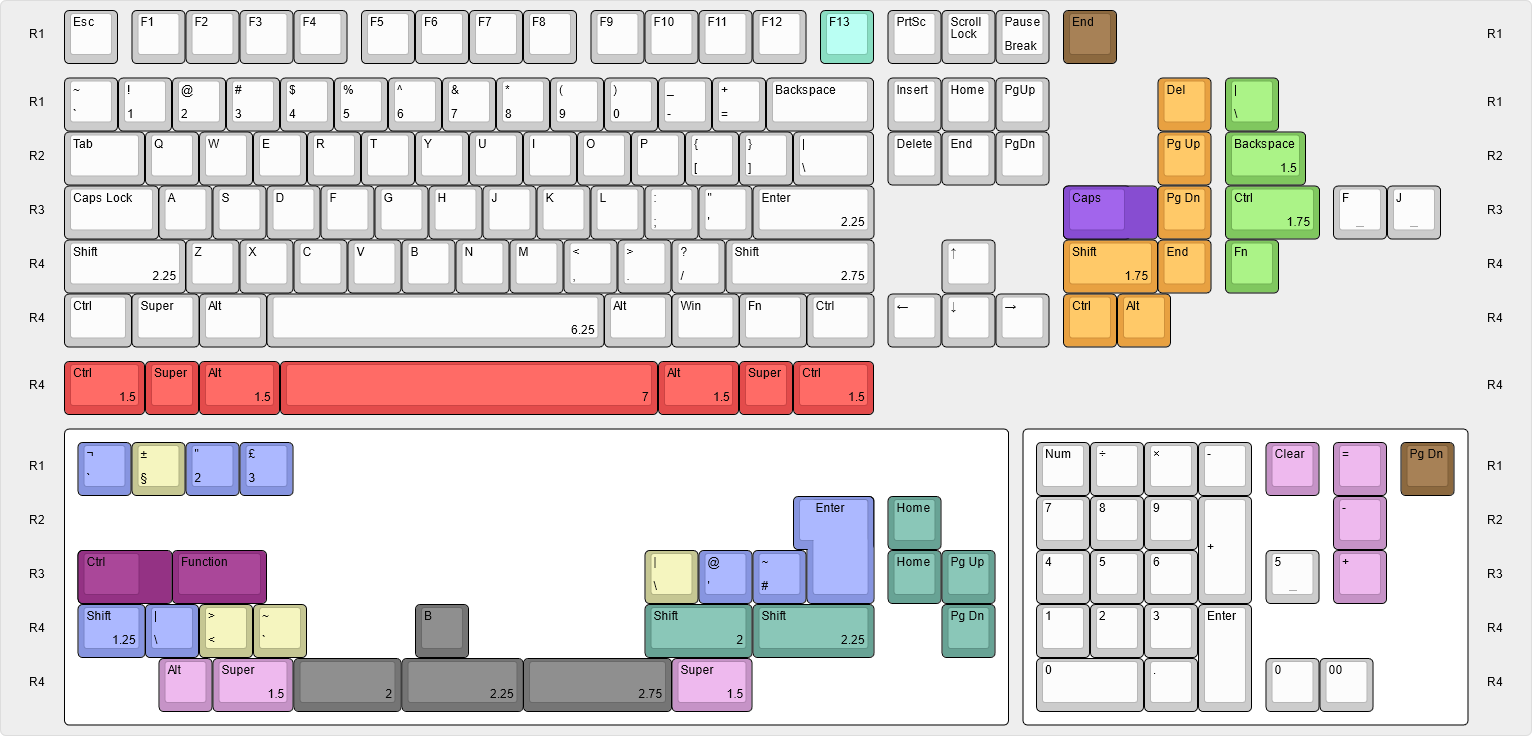
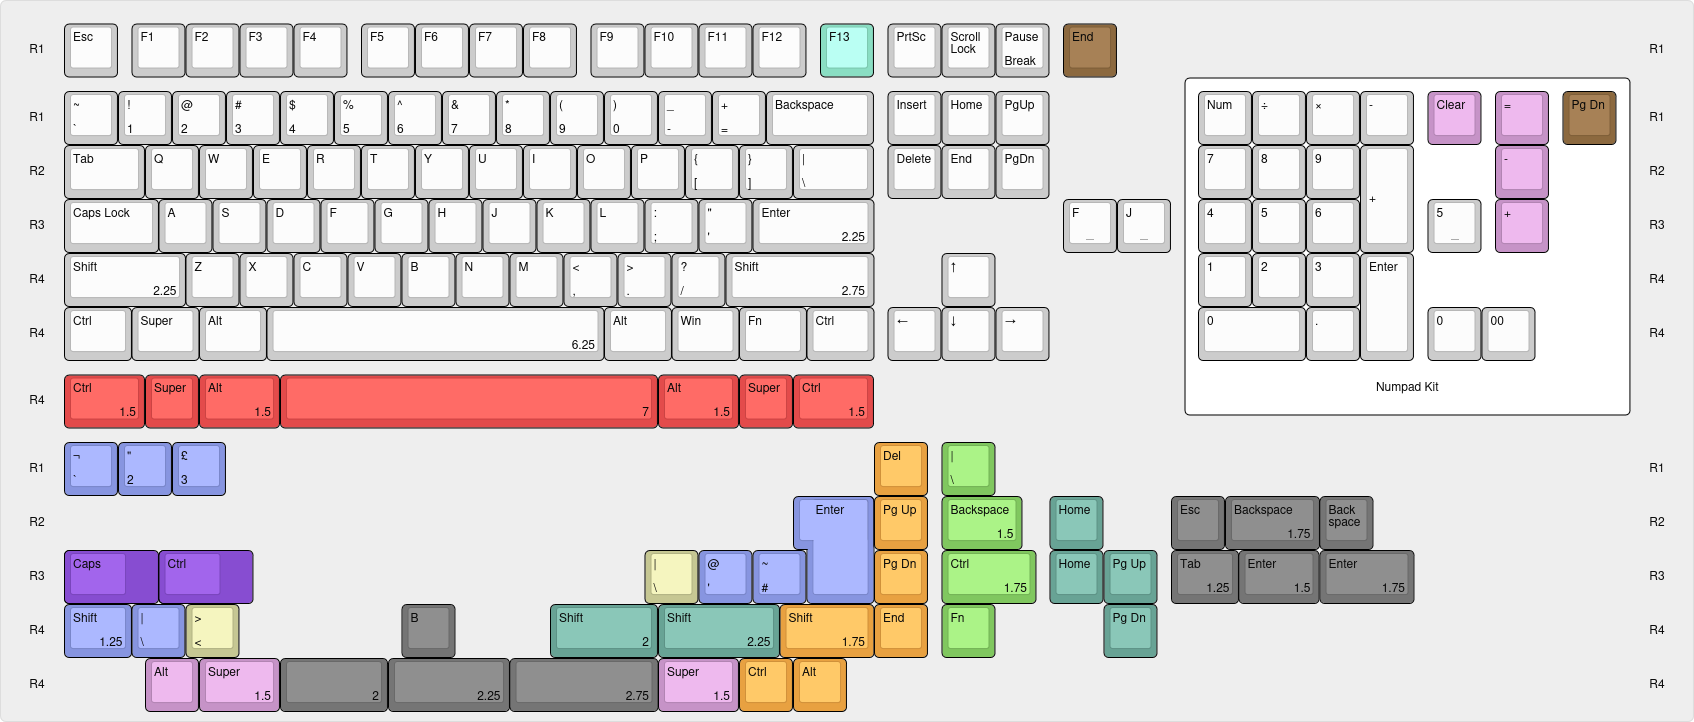
Updates to kitting and added more descriptions

diff --git a/docs/index.html b/docs/index.html
@@ -1,74 +1,99 @@
 <h1 id="keyboard-kitting">Keyboard kitting</h1>
-<p><img src="kitting.png" alt="Kitting" /></p>
-<h2 id="base-kit">Base kit</h2>
-<ul>
-<li>White: ANSI TKL base kit, plus barred F and J</li>
-<li>Cyan: F13</li>
-<li>Red: Tsangan bottom row</li>
-<li>Violet: Stepped caps lock</li>
-<li>Orange: 65% and 75% layout with common right columns
+<p><img src="kitting.png" /></p>
+<h2 id="base-kit">Base Kit</h2>
+<h4 id="white-ansi-tkl">White: ANSI TKL</h4>
+<p>These keys support standard ANSI TKL layout with a 6.25u bottom row.
+Barred F and J are also provided, the non-barred versions may be scooped
+or plain.</p>
+<h4 id="red-tsangan">Red: Tsangan</h4>
+<p>This is a very common option on many boards as an alternative to
+6.25u bottom row, and on some boards - particularly TKLs - is the only
+bottom row option available.</p>
+<h4 id="cyan-f13">Cyan: F13</h4>
+<p>TKLs with this key are increasingly common, including in-stock
+options such as the Novelkeys NK87 and NK87 EE. It is added in the base
+kit to avoid the need to buy an extension kit for a single key for
+boards like this.</p>
+<h4 id="purple-stepped-caps">Purple: Stepped caps</h4>
+<p>Stepped caps lock and stepped ctrl</p>
+<h4 id="orange-6575">Orange: 65/75</h4>
+<p>Support for 65% and 75% layouts with the most common rightmost
+columns</p>
 <ul>
 <li>65%: Del, Pg Up, Pg Dn, End</li>
 <li>75%: Del, Home, Pg Up, Pg Dn, End</li>
-<li>Extra mods for keys between spacebar and arrows on 65%/67% with no bottom row blocker:
-<ul>
-<li>1u Ctrl and 1u Alt (plus 1u Super from red kit) to support 3x1u</li>
-<li>(1.5u Ctrl and 1.5u Alt from the red kit to support 2x1.5u)</li>
-</ul></li>
-</ul></li>
-<li>Brown: R1 End key to support:
-<ul>
-<li>Uncommon right column on 75%: End, Insert, Del, Pg Up, Pg Dn (with extension kit)</li>
-<li>1800 layout (with numpad kit)</li>
-</ul></li>
-<li>Green: HHKB</li>
+<li>Extra 1u Ctrl and Alt mods are included for the space between the
+spacebar and arrows on 65% and 75% layouts that don't have a blocker. An
+extra 1u super key is already included in the red keys</li>
 </ul>
-<h2 id="extension-kit">Extension kit</h2>
+<h4 id="green-hhkb">Green: HHKB</h4>
 <ul>
-<li>Blue: UK ISO</li>
-<li>Yellow: US/International ISO and Mac ISO
+<li>In combination with the super and alt from the red keys and 1.65u
+shift from the orange keys, Windows/Linux HHKB layout is supported</li>
+<li>In combination with the pink Mac keys, Mac HHKB layout is
+supported</li>
+</ul>
+<h4 id="brown-1800">Brown: 1800</h4>
+<p>R1 End key to support uncommon 75% layouts with the extension kit, or
+1800 layouts with the numpad kit. This is included in the base kit to
+avoid the need to buy all three kits for 1800 layout</p>
+<h4 id="blue-uk-iso">Blue: UK ISO</h4>
+<p>These are not provided in a NorDe international kit because UK ISO
+keys do not overlap with any keys in German, Swedish/Finnish, Norwegian
+or Danish.</p>
+<h4 id="pink-mac">Pink: Mac</h4>
+<p>Super and Alt (Command and Option) are swapped round on the bottom
+row on Mac, so these are required for Mac bottom row support when using
+Tsangan layout</p>
+<h4 id="grey-forties-and-alice">Grey: Forties and Alice</h4>
 <ul>
-<li>Also requires ISO enter, 1.25u R4 left shift</li>
-<li>UK Mac ISO requires R1 3/£</li>
-</ul></li>
-<li>Teal: Uncommon 65%/75% layouts
+<li>Supports the usual Alice/Arisu spacebar sizes of 2u, 2.25u and
+2.75u</li>
+<li>Extra B for Alice</li>
+<li>Allows use of split spacebar on boards like the Ikki68 Aurora, in
+2.25 - 1.25 - 2.75 layout</li>
+<li>Basic support for forties layouts, such as Planck, Minivan, Neko,
+UD_40, UT47, Daisy</li>
+</ul>
+<h4 id="teal-uncommon-6576">Teal: Uncommon 65/76</h4>
 <ul>
-<li>2u/2.25u right shift for keyboards where arrows are offset by 0.25u/0.5u</li>
-<li>2u right shift can also be used as left shift on non-standard stagger (eg, DZ60 PCB)</li>
-<li>Support uncommon right columns on 65%/75%:
+<li>2u and 2.25u Right Shift for layouts where arrows are offset by
+0.25u/0.5u (eg, "660" layout); 2u is also used for ANSI left shift when
+using non-standard stagger (eg DZ60 PCB)</li>
+<li>Support for uncommon right columns on 65/75:
 <ul>
 <li>75%: Del, Pg Up, Pg Dn, Home, End (eg, Keychron K2)</li>
 <li>75%: blocker/rotary, Insert, Delete, Pg Up, Pg Dn</li>
-<li>65%: Insert, Del, Pg Up, Pg Dn (eg, default on CU65, Practice65, Space65)
+<li>65%: Insert, Del, Pg Up, Pg Dn (eg, default on CU65, Practice65,
+Space65)
 <ul>
-<li>This layout preserves the position of Insert &amp; Delete as on standard TKL</li>
+<li>This layout preserves the position of Insert &amp; Delete as on
+standard TKL</li>
 </ul></li>
-<li>65%: blank, Delete, Pg Up, Pg Dn (eg, default on Iron165)</li>
+<li>65%: blocker/rotary, Delete, Pg Up, Pg Dn (eg, default on
+Iron165)</li>
 <li>65%: Del, Home, Pg Up, Pg Dn (eg, Drop Alt)</li>
 </ul></li>
-</ul></li>
-<li>Pink: Tsangan Mac bottom row (second 1u R4 alt is in orange keys in the base kit)</li>
-<li>Grey: Alice spacebars
-<ul>
-<li>2.25u and 2.75u are also standard for split spacebar; 2.25-1.25-2.75</li>
-</ul></li>
-<li>Purple: Uncommon keys for caps lock area</li>
 </ul>
+<h4 id="yellow-usterminal-iso">Yellow: US/Terminal ISO</h4>
+<p>US ISO "Terminal ISO" keys. Some people like this I guess.</p>
 <h2 id="numpad">Numpad</h2>
+<h4 id="white-numpad">White: Numpad</h4>
 <ul>
-<li>White: Standard numpad, plus:
-<ul>
+<li>Adds 1u zero either for use alongside 00, or for 1800 layout where
+that space is taken by arrows</li>
 <li>Barred 5</li>
-<li>1u 0 for 1800 layout and use with 00</li>
-</ul></li>
-<li>1u 00</li>
-<li>Barred 5</li>
-<li>Pink: Mac numpad</li>
-<li>Brown
-<ul>
-<li>R4 Pg Dn, for above the numpad on 1800 layout</li>
-</ul></li>
 </ul>
+<h4 id="pink-mac-1">Pink: Mac</h4>
+<ul>
+<li>Mac numpads use this layout of equals, minus and plus on the
+leftmost column instead of 1u minus and 2u-tall plus</li>
+<li>Clear key instead of num lock key</li>
+</ul>
+<h4 id="brown-1800-1">Brown: 1800</h4>
+<p>Pg Dn goes above the numpad on 1800 layout. This is used alongside
+the R1 Home key from the base kit</p>
 <hr />
 
-<p>Created by members of the #keyboards channel of the <a href="https://www.relay.fm">Relay.fm</a> community Discord.</p>
+<p>Created by members of the #keyboards channel of the <a
+href="https://www.relay.fm">Relay.fm</a> community Discord.</p>

diff --git a/kitting.md b/kitting.md
@@ -1,55 +1,75 @@
-# Keyboard kitting
+Keyboard kitting
+================
 
-![Kitting](kitting.png)
+![](kitting.png)
 
-## Base kit
+Base Kit
+--------
 
-* White: ANSI TKL base kit, plus barred F and J
-* Cyan: F13
-* Red: Tsangan bottom row
-* Violet: Stepped caps lock
-* Orange: 65% and 75% layout with common right columns
-    * 65%: Del, Pg Up, Pg Dn, End
-    * 75%: Del, Home, Pg Up, Pg Dn, End
-    * Extra mods for keys between spacebar and arrows on 65%/67% with no bottom row blocker:
-        * 1u Ctrl and 1u Alt (plus 1u Super from red kit) to support 3x1u
-        * (1.5u Ctrl and 1.5u Alt from the red kit to support 2x1.5u)
-* Brown: R1 End key to support:
-    * Uncommon right column on 75%: End, Insert, Del, Pg Up, Pg Dn (with extension kit)
-    * 1800 layout (with numpad kit)
-* Green: HHKB
+#### White: ANSI TKL
+These keys support standard ANSI TKL layout with a 6.25u bottom row. Barred F and J are also provided, the non-barred versions may be scooped or plain.
 
-## Extension kit
+#### Red: Tsangan
+This is a very common option on many boards as an alternative to 6.25u bottom row, and on some boards - particularly TKLs - is the only bottom row option available.
 
-* Blue: UK ISO
-* Yellow: US/International ISO and Mac ISO
-    * Also requires ISO enter, 1.25u R4 left shift
-    * UK Mac ISO requires R1 3/£
-* Teal: Uncommon 65%/75% layouts
-    * 2u/2.25u right shift for keyboards where arrows are offset by 0.25u/0.5u
-    * 2u right shift can also be used as left shift on non-standard stagger (eg, DZ60 PCB)
-    * Support uncommon right columns on 65%/75%:
-        * 75%: Del, Pg Up, Pg Dn, Home, End (eg, Keychron K2)
-        * 75%: blocker/rotary, Insert, Delete, Pg Up, Pg Dn
-        * 65%: Insert, Del, Pg Up, Pg Dn (eg, default on CU65, Practice65, Space65)
-            * This layout preserves the position of Insert & Delete as on standard TKL
-        * 65%: blank, Delete, Pg Up, Pg Dn (eg, default on Iron165)
-        * 65%: Del, Home, Pg Up, Pg Dn (eg, Drop Alt)
-* Pink: Tsangan Mac bottom row (second 1u R4 alt is in orange keys in the base kit)
-* Grey: Alice spacebars
-    * 2.25u and 2.75u are also standard for split spacebar; 2.25-1.25-2.75
-* Purple: Uncommon keys for caps lock area
+#### Cyan: F13
+TKLs with this key are increasingly common, including in-stock options such as the Novelkeys NK87 and NK87 EE. It is added in the base kit to avoid the need to buy an extension kit for a single key for boards like this.
 
-## Numpad
+#### Purple: Stepped caps
+Stepped caps lock and stepped ctrl
 
-* White: Standard numpad, plus:
-    * Barred 5
-    * 1u 0 for 1800 layout and use with 00
-* 1u 00
+#### Orange: 65/75
+Support for 65% and 75% layouts with the most common rightmost columns
+
+* 65%: Del, Pg Up, Pg Dn, End
+* 75%: Del, Home, Pg Up, Pg Dn, End
+* Extra 1u  Ctrl and Alt mods are included for the space between the spacebar and arrows on 65% and 75% layouts that don't have a blocker. An extra 1u super key is already included in the red keys
+
+#### Green: HHKB
+* In combination with the super and alt from the red keys and 1.65u shift from the orange keys, Windows/Linux HHKB layout is supported
+* In combination with the pink Mac keys, Mac HHKB layout is supported
+
+#### Brown: 1800
+R1 End key to support uncommon 75% layouts with the extension kit, or 1800 layouts with the numpad kit. This is included in the base kit to avoid the need to buy all three kits for 1800 layout
+
+#### Blue: UK ISO
+These are not provided in a NorDe international kit because UK ISO keys do not overlap with any keys in German, Swedish/Finnish, Norwegian or Danish.
+
+#### Pink: Mac
+Super and Alt (Command and Option) are swapped round on the bottom row on Mac, so these are required for Mac bottom row support when using Tsangan layout
+
+#### Grey: Forties and Alice
+* Supports the usual Alice/Arisu spacebar sizes of 2u, 2.25u and 2.75u
+* Extra B for Alice
+* Allows use of split spacebar on boards like the Ikki68 Aurora, in 2.25 - 1.25 - 2.75 layout
+* Basic support for forties layouts, such as Planck, Minivan, Neko, UD\_40, UT47, Daisy
+
+#### Teal: Uncommon 65/76
+* 2u and 2.25u Right Shift for layouts where arrows are offset by 0.25u/0.5u (eg, "660" layout); 2u is also used for ANSI left shift when using non-standard stagger (eg DZ60 PCB)
+* Support for uncommon right columns on 65/75:
+    * 75%: Del, Pg Up, Pg Dn, Home, End (eg, Keychron K2)
+    * 75%: blocker/rotary, Insert, Delete, Pg Up, Pg Dn
+    * 65%: Insert, Del, Pg Up, Pg Dn (eg, default on CU65, Practice65, Space65)
+        * This layout preserves the position of Insert & Delete as on standard TKL
+    * 65%: blocker/rotary, Delete, Pg Up, Pg Dn (eg, default on Iron165)
+    * 65%: Del, Home, Pg Up, Pg Dn (eg, Drop Alt)
+
+#### Yellow: US/Terminal ISO
+US ISO "Terminal ISO" keys. Some people like this I guess.
+
+Numpad
+------
+
+#### White: Numpad
+* Adds 1u zero either for use alongside 00, or for 1800 layout where that space is taken by arrows
 * Barred 5
-* Pink: Mac numpad
-* Brown
-    * R4 Pg Dn, for above the numpad on 1800 layout
+
+#### Pink: Mac
+* Mac numpads use this layout of equals, minus and plus on the leftmost column instead of 1u minus and 2u-tall plus
+* Clear key instead of num lock key
+
+#### Brown: 1800
+Pg Dn goes above the numpad on 1800 layout. This is used alongside the R1 Home key from the base kit
 
 <hr />
 
